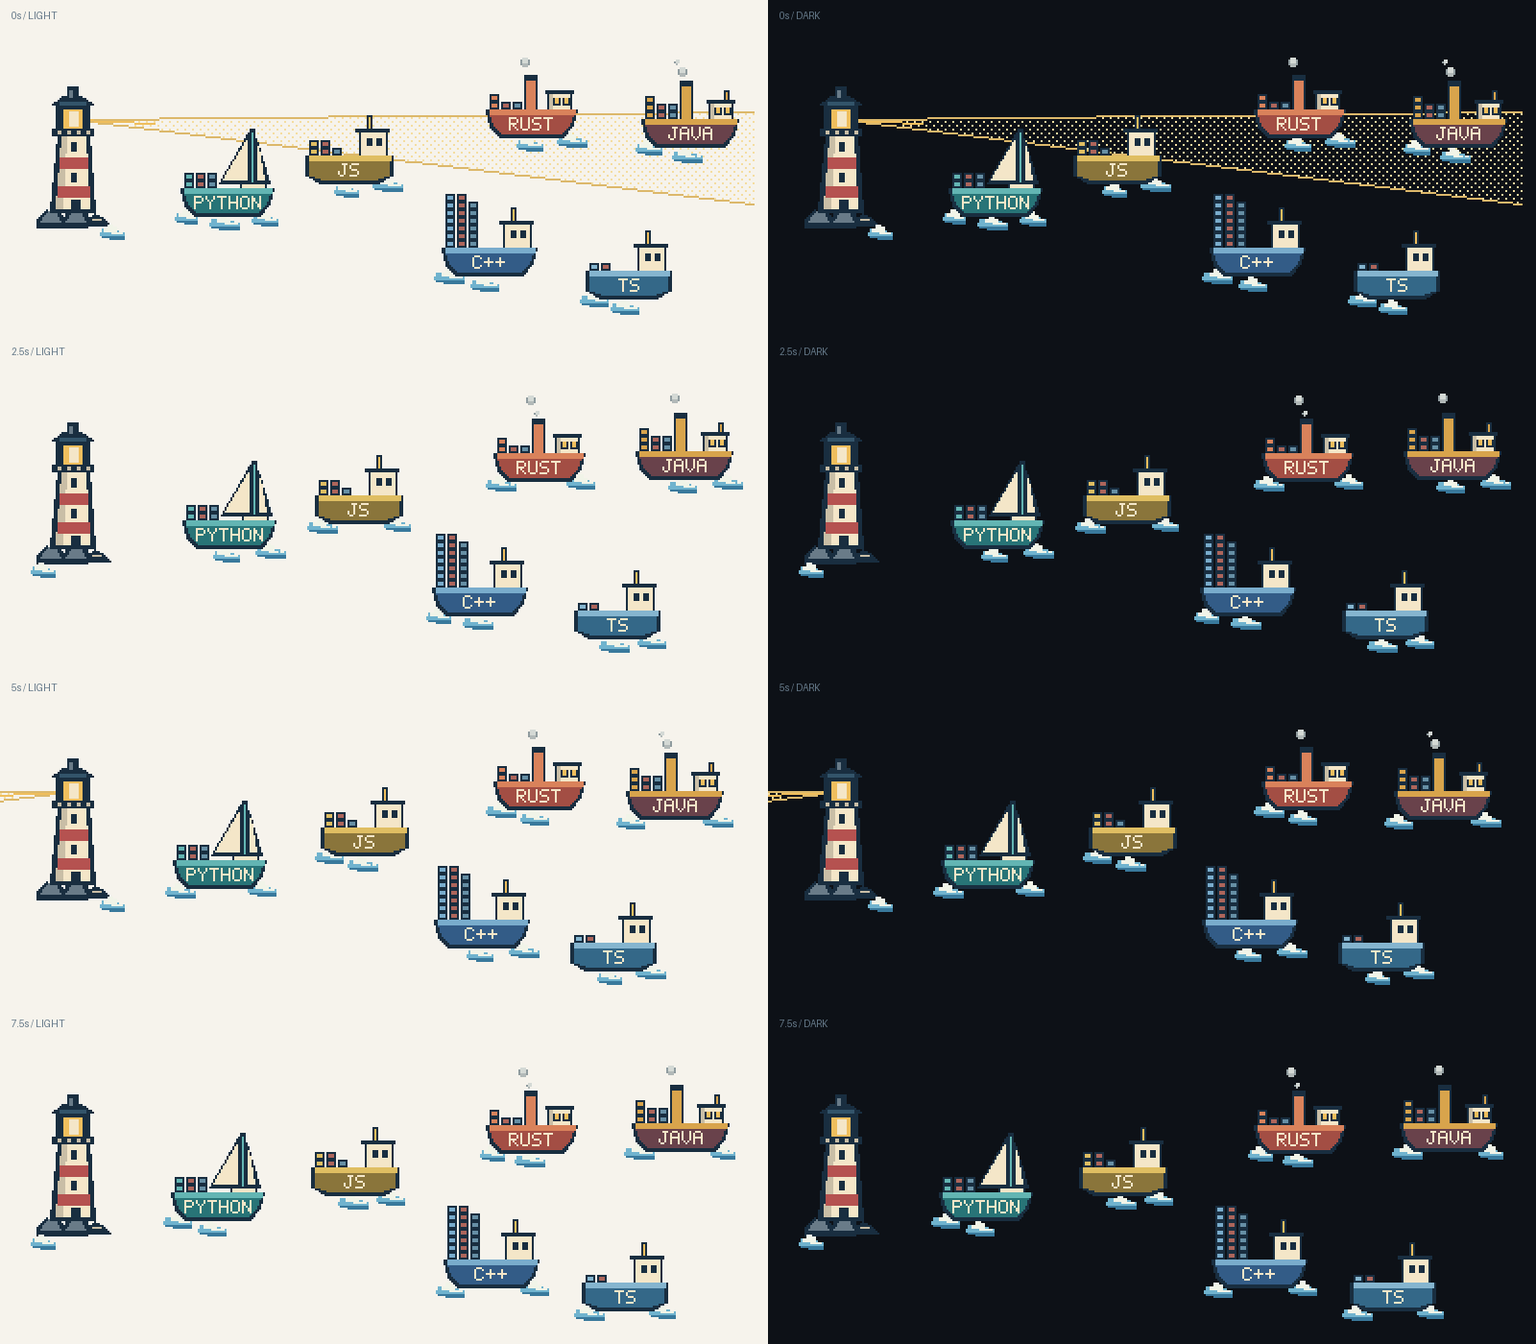
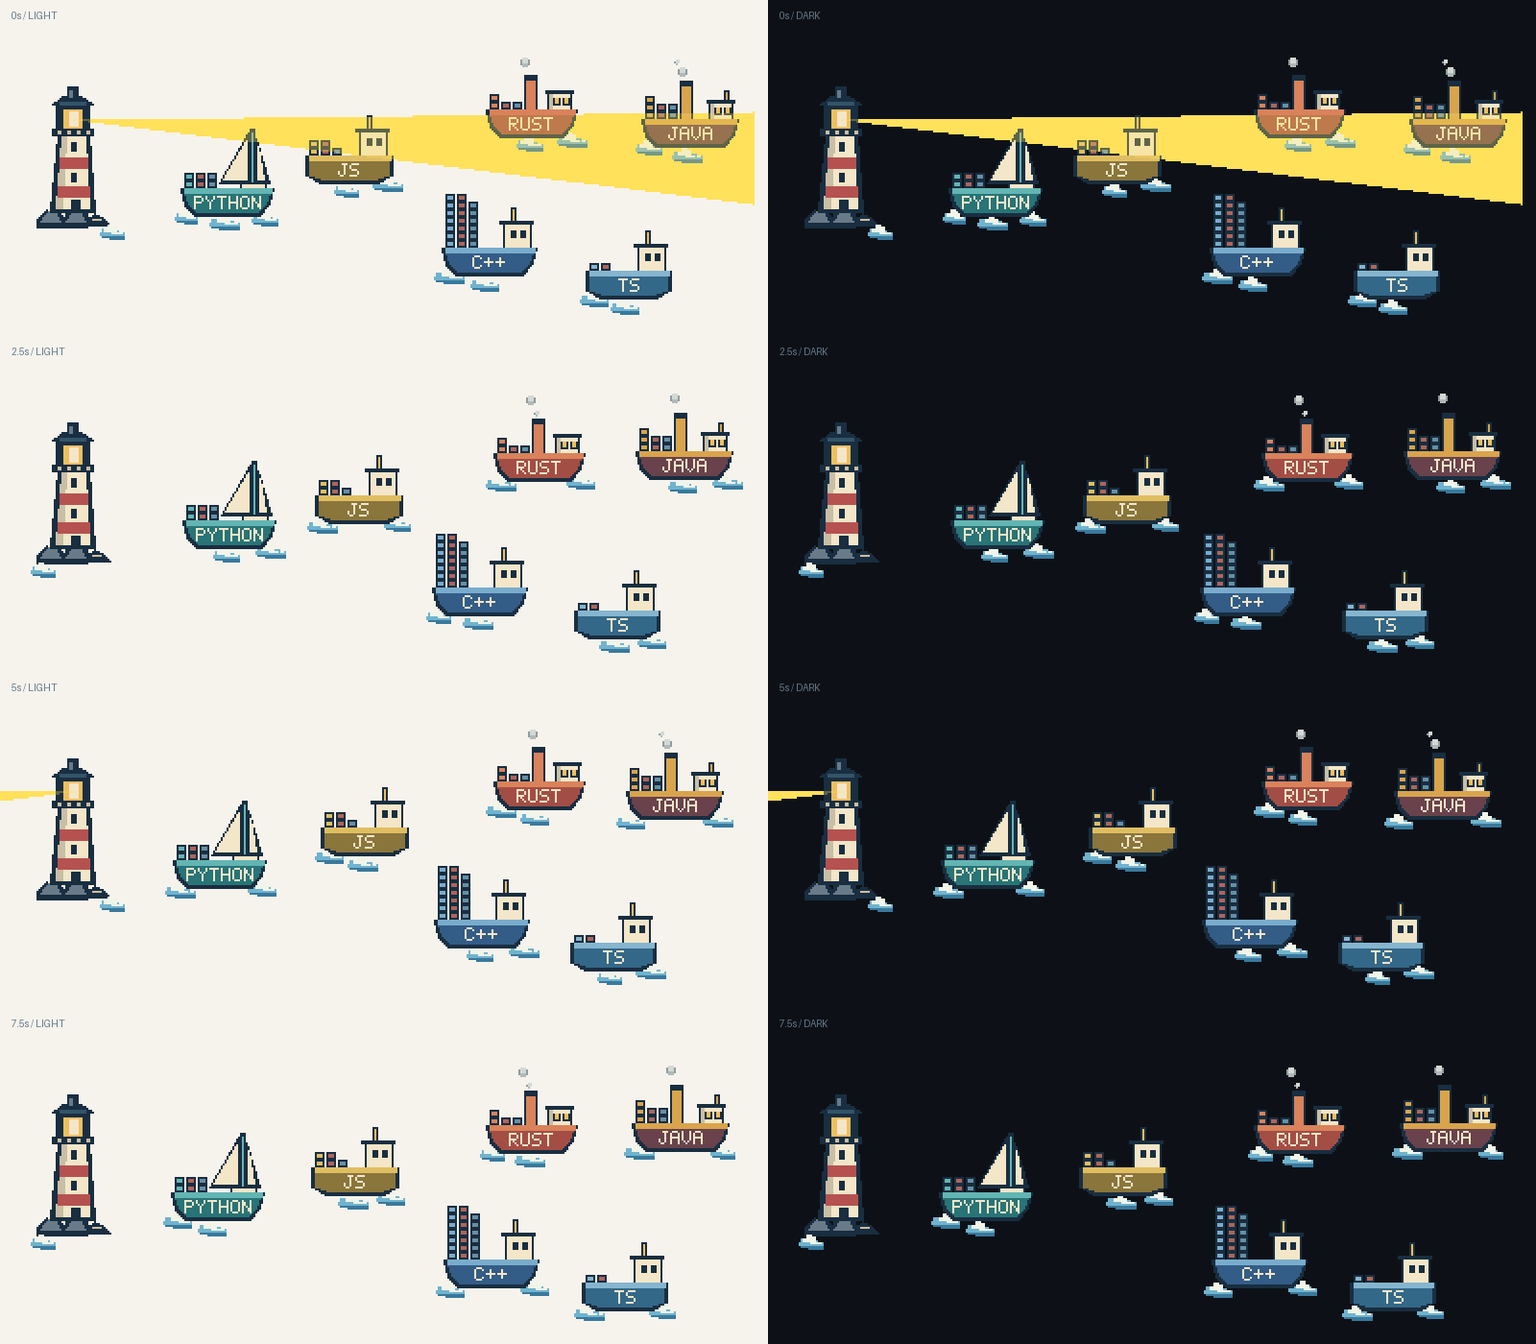
Fill the lighthouse beam and blend yellow light over ships

diff --git a/tests/test_beam.py b/tests/test_beam.py
@@ -1,8 +1,8 @@
 from dataclasses import replace
 
-from PIL import Image, ImageChops, ImageColor
+from PIL import Image, ImageColor
 
-from git_ship.animation import BEAM_LIGHT, BEAM_SHADE, LIGHT_ORIGIN, Animator, lighthouse_beam
+from git_ship.animation import BEAM_LIGHT, LIGHT_ORIGIN, Animator, lighthouse_beam
 from git_ship.config import Config
 from git_ship.export import export
 from git_ship.layout import layout
@@ -15,7 +15,12 @@ def test_rotating_beam_sweeps_foreshortens_and_has_an_exact_loop():
         lighthouse_beam(image, t)
         frames.append(image)
         assert set(image.getchannel("A").tobytes()) <= {0, 255}
-        assert image.getchannel("A").histogram()[0] / (400 * 160) > 0.96
+        assert image.getchannel("A").histogram()[0] / (400 * 160) > 0.85
+        assert image.getcolors() is not None
+        assert all(
+            not color[3] or color[:3] == ImageColor.getrgb(BEAM_LIGHT)
+            for _, color in image.getcolors()
+        )
     assert frames[0].tobytes() == frames[-1].tobytes()
     assert frames[2].getbbox() is None  # End-on projection collapses at a quarter turn.
     assert frames[0].getbbox()[2] > 380
@@ -25,26 +30,58 @@ def test_rotating_beam_sweeps_foreshortens_and_has_an_exact_loop():
     assert frames[0].getpixel(LIGHT_ORIGIN)[3] == 255
 
 
-def test_beam_toggle_preserves_lighthouse_and_ship_art(demo):
+def test_beam_is_solid_over_empty_space_and_translucent_over_colored_pixels():
+    empty = Image.new("RGBA", (400, 160))
+    colored = Image.new("RGBA", (400, 160), (40, 80, 120, 255))
+    lighthouse_beam(empty, 0)
+    lighthouse_beam(colored, 0)
+    assert empty.getpixel((200, 55)) == (255, 225, 91, 255)
+    assert colored.getpixel((200, 55)) == (104, 124, 111, 255)
+    assert colored.getpixel((200, 150)) == (40, 80, 120, 255)
+    assert empty.crop((198, 54, 203, 58)).getchannel("A").histogram()[255] == 20
+
+
+def test_beam_toggle_blends_light_over_lighthouse_and_ship_art(demo):
     config = Config(scale=1, seed="beam-toggle", lighthouse_beam=False)
     scene = layout(demo, config)
     dark = Animator(scene, config)
     lit = Animator(scene, replace(config, lighthouse_beam=True))
-    beam_colors = {(*ImageColor.getrgb(color), 255) for color in (BEAM_LIGHT, BEAM_SHADE)}
+    beam_color = (*ImageColor.getrgb(BEAM_LIGHT), 255)
     assert lit.frame(0).tobytes() == lit.frame(1).tobytes()
     for t in (0, 0.1, 0.375, 0.8):
         before, after = dark.frame(t), lit.frame(t)
-        # Ray is behind the complete scene: every existing opaque sprite,
-        # label, ripple and smoke pixel is preserved exactly.
-        difference = ImageChops.difference(before.convert("RGB"), after.convert("RGB"))
-        assert not ImageChops.multiply(difference, before.getchannel("A").convert("RGB")).getbbox()
-    assert not any(pixel in beam_colors for pixel in dark.frame(0).get_flattened_data())
-    assert any(pixel in beam_colors for pixel in lit.frame(0).get_flattened_data())
+        mask = Image.new("RGBA", before.size)
+        lighthouse_beam(mask, t)
+        tinted = 0
+        for original, illuminated, ray in zip(
+            before.get_flattened_data(),
+            after.get_flattened_data(),
+            mask.get_flattened_data(),
+            strict=True,
+        ):
+            if not ray[3]:
+                assert illuminated == original
+            elif original[3]:
+                # Existing shape/color survives under 30% yellow light.
+                assert illuminated == (
+                    *(
+                        round(base * 0.7 + yellow * 0.3)
+                        for base, yellow in zip(original[:3], beam_color[:3], strict=True)
+                    ),
+                    255,
+                )
+                tinted += illuminated != original
+            else:
+                assert illuminated == beam_color
+        if t in (0, 0.1):
+            assert tinted > 0
+    assert beam_color not in dark.frame(0).get_flattened_data()
+    assert beam_color in lit.frame(0).get_flattened_data()
 
 
 def test_beam_exports_with_exact_palette_cleanup_and_transparent_background(demo, tmp_path):
     config = Config(scale=1, duration=2, seed="beam-export", lighthouse_beam=True)
     report, frames = export(layout(demo, config), config, tmp_path)
     assert report["decoded_frames_match"]
-    assert report["min_transparent_fraction"] >= 0.8
+    assert report["min_transparent_fraction"] >= 0.7
     assert all(set(frame.getchannel("A").tobytes()) == {0, 255} for frame in frames)

diff --git a/src/git_ship/animation.py b/src/git_ship/animation.py
@@ -12,7 +12,6 @@ from .layout import Scene, Ship
 from .sprites import (
     FOAM,
     FUNNEL_ORIGINS,
-    GOLD,
     SMOKE,
     SMOKE_LIGHT,
     SMOKE_SHADE,
@@ -24,8 +23,9 @@ from .sprites import (
 
 TAU = math.tau
 LIGHT_ORIGIN = (38, 47)
-BEAM_LIGHT = "#f4dda0"
-BEAM_SHADE = "#dcb86b"
+BEAM_LIGHT = "#ffe15b"
+BEAM_RGB = (255, 225, 91)
+BEAM_TINT = 0.3
 
 
 @dataclass(frozen=True)
@@ -77,7 +77,7 @@ def smoke_puff(d: ImageDraw.ImageDraw, x: int, bottom: int, age: float) -> None:
 
 
 def lighthouse_beam(image: Image.Image, t: float) -> None:
-    """Project one rotating fan, using sparse pixels instead of GIF alpha fading."""
+    """Fill empty space yellow and blend that light over existing artwork."""
     angle = TAU * (t % 1)
     facing = math.cos(angle)
     depth = abs(facing)
@@ -98,16 +98,23 @@ def lighthouse_beam(image: Image.Image, t: float) -> None:
         return
     left, top, right, bottom = bounds
     pixels, inside = image.load(), mask.load()
-    # A fixed world-space pattern avoids crawling noise as the fan sweeps. Only
-    # two of sixteen pixels are lit; the rest remain genuinely transparent.
+    # GIF supports binary alpha. Composite the translucent yellow onto existing
+    # colors here, preserving the exact same appearance in GIF and PNG. A fixed
+    # blend gives each art color one lit counterpart across the entire loop.
     for py in range(top, bottom):
-        for px in range(left + (-(left + py) % 4), right, 4):
-            if py % 2 == 0 and inside[px, py]:
-                pixels[px, py] = (244, 221, 160, 255)
-    d = ImageDraw.Draw(image)
-    d.line((vertices[1], vertices[0], vertices[2]), fill=BEAM_SHADE)
-    # A short bright center at the lantern keeps the emission point readable.
-    d.line((vertices[0], (x + round(reach * 0.12), y + round((tip_y - y) * 0.12))), fill=GOLD)
+        for px in range(left, right):
+            if not inside[px, py]:
+                continue
+            previous = pixels[px, py]
+            color = (
+                tuple(
+                    round(base * (1 - BEAM_TINT) + light * BEAM_TINT)
+                    for base, light in zip(previous[:3], BEAM_RGB, strict=True)
+                )
+                if previous[3]
+                else BEAM_RGB
+            )
+            pixels[px, py] = (*color, 255)
 
 
 class Animator:
@@ -123,8 +130,6 @@ class Animator:
         t %= 1
         image = Image.new("RGBA", (WIDTH, HEIGHT))
         d = ImageDraw.Draw(image)
-        if self.config.lighthouse_beam:
-            lighthouse_beam(image, t)
         image.alpha_composite(self.lights[int(math.sin(TAU * t * 2) > -0.55)], (17, 27))
         for j, (x, y) in enumerate(((15, 106), (51, 105))):
             p = (t * 2 + j * 0.5) % 1
@@ -153,6 +158,8 @@ class Animator:
                         smoke_puff(d, sx, bottom, p)
             # Cargo and the hull occlude smoke drifting behind them.
             image.alpha_composite(sprite, (m.x, m.y))
+        if self.config.lighthouse_beam:
+            lighthouse_beam(image, t)
         if self.config.scale != 1:
             image = image.resize(
                 (WIDTH * self.config.scale, HEIGHT * self.config.scale), Image.Resampling.NEAREST

diff --git a/tests/test_dynamic_ships.py b/tests/test_dynamic_ships.py
@@ -148,12 +148,13 @@ def test_full_motion_envelopes_fit_and_remain_disjoint_across_many_layouts(count
             assert a[2] < b[0] or b[2] < a[0] or a[3] < b[1] or b[3] < a[1]
 
 
-def test_six_fully_loaded_ships_keep_transparency_and_exact_gif_cleanup(tmp_path):
-    config = Config(seed="six-full-ships", scale=1, duration=2)
+@pytest.mark.parametrize("beam", [False, True])
+def test_six_fully_loaded_ships_keep_transparency_and_exact_gif_cleanup(tmp_path, beam):
+    config = Config(seed="six-full-ships", scale=1, duration=2, lighthouse_beam=beam)
     scene = layout(active_profile(count=6, cargo=20), config)
     report, _ = export(scene, config, tmp_path)
     assert len(report["languages"]) == 6
     assert all(language["cargo"] == 20 for language in report["languages"])
-    assert report["min_transparent_fraction"] > 0.8
+    assert report["min_transparent_fraction"] > (0.7 if beam else 0.8)
     assert report["decoded_frames_match"]
     assert report["layout_seed"] == config.seed

diff --git a/tests/test_render.py b/tests/test_render.py
@@ -86,7 +86,7 @@ def test_deterministic_periodic_motion_and_independent_objects(demo):
 
 
 def test_export_decoded_palette_alpha_timing_and_cleanup(demo, tmp_path):
-    config = Config(seed="export-test")
+    config = Config(seed="export-test", lighthouse_beam=False)
     report, intended = export(layout(demo, config), config, tmp_path)
     assert report["decoded_frames_match"]
     assert report["min_transparent_fraction"] >= 0.8
@@ -117,7 +117,7 @@ def test_empty_quiet_and_small_fleets_still_animate(demo, tmp_path, count):
     profile = replace(demo, contributions=0)
     report, frames = export(layout(profile, config), config, tmp_path)
     assert report["frames"] == 50 and report["duration_seconds"] == 2
-    assert report["min_transparent_fraction"] >= 0.8
+    assert report["min_transparent_fraction"] >= 0.7
     assert len({f.tobytes() for f in frames}) > 1
     empty = replace(demo, repositories=())
     assert layout(empty, config).ships == ()

diff --git a/README.md b/README.md
@@ -7,7 +7,7 @@ A little lighthouse for you. A cargo fleet for your languages. Your GitHub READM
   <img src="examples/demo/git-ship.gif" width="800" alt="A lighthouse beside six active-language pixel ships carrying commit cargo over small foamy wakes.">
 </picture>
 
-Git Ship is an open-source **reusable GitHub Action** and Python CLI for anyone's profile. It fetches your public repository data and generates a transparent animated GIF plus a matching static PNG. **Only languages with qualifying commits appear: up to six ships, with one container per commit and at most 20 containers per ship.** Each regeneration picks fresh positions across the sea; positions remain fixed within the seamless animation loop. An optional rotating lighthouse ray adds a sweeping warm light behind the fleet. Regenerate automatically every day and choose a **1-day, 7-day, 30-day, or 365-day** activity window. No hosted application, external image service, or personal access token is needed for the normal setup.
+Git Ship is an open-source **reusable GitHub Action** and Python CLI for anyone's profile. It fetches your public repository data and generates a transparent animated GIF plus a matching static PNG. **Only languages with qualifying commits appear: up to six ships, with one container per commit and at most 20 containers per ship.** Each regeneration picks fresh positions across the sea; positions remain fixed within the seamless animation loop. An optional rotating lighthouse ray sweeps a solid yellow cone across the scene and tints the artwork it crosses. Regenerate automatically every day and choose a **1-day, 7-day, 30-day, or 365-day** activity window. No hosted application, external image service, or personal access token is needed for the normal setup.
 
 Use `PingPongPlus/git-ship@main` for the current source action, or pin a reviewed full commit SHA for a stable installation.
 
@@ -221,15 +221,15 @@ The optional [GraphQL contribution calendar](https://docs.github.com/en/graphql/
 
 Each render samples positions throughout the sea to the right of the lighthouse, rejecting placements whose full wake/drift/bob/smoke envelopes overlap or leave the canvas. Bounded retries keep layout work finite; dense fleets fall back to randomized column widths and independent vertical splits that guarantee room. Hull width is `min(round(44 + 16*sqrt(share)), 62)`, so names and cargo stay readable even with six ships. A fresh random seed is chosen **once per render**, never per frame. `report.json` stores `layout_seed` and ship coordinates; pass the seed back through `--seed` with the same profile/config to reproduce the GIF. The demo artifacts use `--seed demo`. Refreshing a README replays its existing GIF; a new workflow run generates the new placement.
 
-The lighthouse ray rotates once per loop. Its projected length, tilt and fan width change as it turns toward and away from the viewer. Warm stepped outlines and sparse fixed-pattern pixels form the cone while the surrounding sea remains transparent. It is drawn behind every ship, wave and lighthouse pixel, keeping labels and cargo intact. Disabling it retains the lantern's normal blink.
+The lighthouse ray rotates once per loop. Its projected length, tilt and fan width change as it turns toward and away from the viewer. The cone is solid yellow over empty space. Where it crosses existing artwork, its color is blended with the original pixel at **30% yellow and 70% original color**, so the light and underlying ship, label or wave remain visible together. The ray is applied after the scene is drawn; pixels outside it remain unchanged. Disabling it retains the lantern's normal blink.
 
 For normalized loop time `t` and stable phase `p`, horizontal drift is `round((2.5 + 1.5*activity)*sin(2π(t+p)))`; bob is `round((1.2 + 0.8*energy)*sin(4π(t+p)))`. Names and cargo move with the same sprite. Boats face right while surging and easing astern in their small mooring area; there is no offscreen wrap or teleport.
 
 Three blue/white wake clusters cycle three times per loop, visible for phases 0.08–0.78, changing length/crest and drifting left. End crests tuck behind the hull; the middle patch sits below the keel. Two staggered steam/tug puffs cycle three times, visible from phase 0 to 0.86, rising 11 pixels and drifting left 7 pixels. A shared funnel-mouth anchor keeps smoke aligned and the stack connected to the deck. Two localized lighthouse ripples and a tiny lantern cycle twice. Frames sample `i/frame_count`; no extra closing-frame hold is appended.
 
-PNG has real binary RGBA alpha. GIF uses one exact shared palette, transparency index **0**, full-frame image blocks and **disposal 2**, with optimization disabled. No matte, quantization, antialiasing, filled sea/sky or checkerboard is drawn. Pillow's public GIF block helpers preserve identical adjacent frames in quiet scenes. Every saved GIF frame is decoded and compared against intended alpha and visible RGB, including vacated pixels, before images replace existing assets. See [Pillow's GIF options](https://pillow.readthedocs.io/en/stable/handbook/image-file-formats.html#gif).
+PNG has real binary RGBA alpha. The ray's tint is preblended into RGB while its pixels remain fully opaque, keeping the same result in GIF. GIF uses one exact shared palette, transparency index **0**, full-frame image blocks and **disposal 2**, with optimization disabled. Outside the ray and scene artwork, the sea and sky remain transparent; no matte, quantization, antialiasing or checkerboard is drawn. Pillow's public GIF block helpers preserve identical adjacent frames in quiet scenes. Every saved GIF frame is decoded and compared against intended alpha and visible RGB, including vacated pixels, before images replace existing assets. See [Pillow's GIF options](https://pillow.readthedocs.io/en/stable/handbook/image-file-formats.html#gif).
 
-Current six-ship demo with the ray enabled: **800×320**, **100 frames**, **10 fps**, **10 seconds**, **825,266 GIF bytes**; PNG **6,495 bytes**. Every frame is **83.49–85.77% fully transparent**. Sizes may change with source/palette/Pillow versions; `report.json` records actual measurements. The 2 MB target is a warning threshold, not a reason to hide names or cargo. 800 px is recommended; 400 px is the compact proof.
+Current six-ship demo with the solid ray enabled: **800×320**, **100 frames**, **10 fps**, **10 seconds**, **816,046 GIF bytes**; PNG **5,914 bytes**. Every frame is **74.74–85.77% fully transparent**. The filled ray occupies additional space as it sweeps; the ray-disabled fleet retains the tested 80% minimum transparency. Sizes may change with source/palette/Pillow versions; `report.json` records actual measurements. The 2 MB target is a warning threshold, not a reason to hide names or cargo. 800 px is recommended; 400 px is the compact proof.
 
 ## Develop, test and inspect
 

diff --git a/docs/verification.md b/docs/verification.md
@@ -1,6 +1,6 @@
 # Verification record
 
-Local verification: **2026-10-31**, macOS arm64, Python **3.15.0**, Pillow **13.0.0**.
+Local verification: **2026-11-01**, macOS arm64, Python **3.15.0**, Pillow **13.0.0**.
 CI covers Python **3.11/3.15** and runs the root composite action with Python **3.13**.
 The public destination is [PingPongPlus/git-ship](https://github.com/PingPongPlus/git-ship).
 This revision targets `main` and retains the rolling 365-day preset. It fixes
@@ -17,7 +17,7 @@ Commands were run from the project root with its `.venv` unless noted.
 | `/opt/homebrew/bin/python3 -m venv .venv` | Created Python 3.15 environment; the system Python 3.9.6 was too old. |
 | `python -m pip install --no-build-isolation -e .` | Package and CLI installed successfully. |
 | `ruff check .` / `ruff format --check .` | Passed. |
-| `pytest -q` | **92 passed** in 5.43 seconds, with no live API required. |
+| `pytest -q` | **94 passed** in 5.83 seconds, with no live API required. |
 | `python -m build --no-isolation` | Built wheel and source archive, including JSON mappings, fixtures and the Linguist license. |
 | `python -m pip install --no-deps --upgrade --target out/wheel-install dist/git_ship-0.1.0-py3-none-any.whl` | Installed built wheel into an isolated target for verification. |
 | From `/private/tmp`, using the absolute interpreter path and `PYTHONPATH=.../out/wheel-install`: `python -m git_ship render --demo --duration 2 --scale 1 --output-dir .../out/wheel-render` | Installed-wheel import/render smoke test; bundled offline assets and mappings work outside the source checkout. |
@@ -99,10 +99,13 @@ the cap. This audit read live data; ordinary tests remain offline.
 ## Lighthouse ray contracts
 
 The ray originates at the lantern and rotates once per loop, changing projected
-length, tilt and fan width. Sparse warm pixels and stepped outlines preserve
-binary alpha, and every existing opaque ship/lighthouse/wave pixel takes
-precedence. Tests cover its exact loop, changing projection, disable setting and
-exact decoded GIF cleanup. `lighthouse_beam = false`, `--no-lighthouse-beam`, or
+length, tilt and fan width. It is applied after all scene artwork. Empty pixels
+inside the cone become solid yellow; existing opaque pixels receive an RGB tint
+of 30% yellow and 70% original color. Alpha remains binary, preserving the same
+appearance in GIF without discarding the underlying artwork. Pixels outside the
+cone are unchanged. Tests cover its exact loop, changing projection, solid fill,
+color blending, disable setting and exact decoded GIF cleanup.
+`lighthouse_beam = false`, `--no-lighthouse-beam`, or
 the action input `lighthouse-beam: 'false'` disables the ray while retaining the
 lantern blink. The default is enabled.
 
@@ -135,12 +138,19 @@ Fixture: `src/git_ship/assets/demo.json`, observed on **2026-10-01**.
 | Loop | Infinite; no extra closing-frame hold |
 | Layout seed | `demo` |
 | Lighthouse ray | Enabled |
-| GIF | **825,266 bytes**, below 2 MB target |
-| PNG | **6,495 bytes**, genuine RGBA |
-| Fully transparent pixels over every frame | **83.490625%–85.7734375%** |
+| GIF | **816,046 bytes**, below 2 MB target |
+| PNG | **5,914 bytes**, genuine RGBA |
+| Fully transparent pixels over every frame | **74.7375%–85.7734375%** |
 | Alpha / palette / disposal | Binary alpha, one shared palette, transparent index 0, disposal 2 |
 | Decoded comparison | All 100 frames exactly match intended alpha and visible RGB |
 | Cargo, in report order | JAVA 7 / C++ 20 / PYTHON 6 / RUST 4 / JS 5 / TS 2 |
+
+The solid ray intentionally occupies otherwise empty pixels while sweeping,
+reducing the demo's minimum transparency to about 74.74%. Tests continue to
+require at least 80% transparency for the fleet with the ray disabled. With the
+ray enabled, exact binary alpha, palette colors and decoded cleanup remain
+verified. The regenerated contact sheet was inspected for readable Java, Rust
+and JavaScript artwork under the yellow tint.
 
 Delivered art: `examples/demo/git-ship.gif`, `git-ship.png`, `report.json`,
 `contact-sheet.png`, `preview.html`, `examples/reduced-motion.html`, and

diff --git a/artwork/README.md b/artwork/README.md
@@ -26,8 +26,10 @@ The atlas itself is independent of scene positions.
 
 The optional lighthouse ray starts at the lantern and changes projected reach,
 tilt and fan width over one exact loop, creating the impression of a rotating
-lamp. Sparse warm pixels and stepped outlines preserve binary alpha. The ray
-is drawn behind all existing artwork; no sea or sky background is added. Set
+lamp. It fills empty space with solid yellow and is applied after the scene's
+artwork. Where it crosses an existing opaque pixel, RGB is blended at 30% yellow
+and 70% original color so both the ray and underlying art remain visible. Alpha
+stays binary for exact GIF export; pixels outside the cone are unchanged. Set
 `lighthouse_beam = false` in TOML, `lighthouse-beam: 'false'` in the action, or
 use `--no-lighthouse-beam` to disable it without changing the lantern blink.
 
